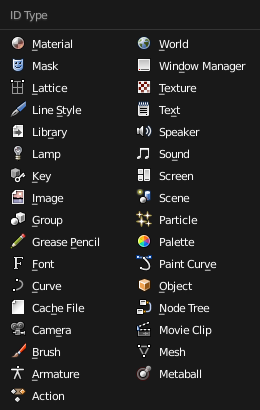
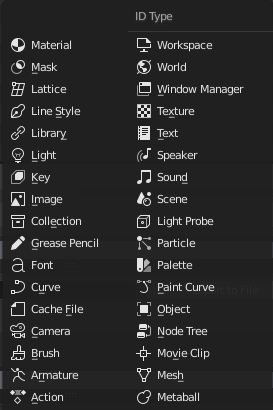
Partial update of Files & Data System section.
git-svn-id: https://svn.blender.org/svnroot/bf-manual/trunk@4916 c4de1f47-6596-e411-a384-0024e86c2797

diff --git a/blender_docs/manual/files/data_blocks.rst b/blender_docs/manual/files/data_blocks.rst
@@ -6,7 +6,7 @@ Data-Blocks
 ***********
 
 The base unit for any Blender project is the data-block. Examples of data-blocks include:
-meshes, objects, materials, textures, node trees, scenes, texts, brushes, and even screens.
+meshes, objects, materials, textures, node trees, scenes, texts, brushes, and even workspaces.
 
 .. figure:: /images/data-system_outliner_blender_file_view.png
    :align: right
@@ -174,158 +174,171 @@ For reference, here is a table of data-blocks types stored in blend-files.
      - Link
      - Pack
      - Description
-   * - Action
+   * - :doc:`Action </animation/actions>`
      - |tick|
      - |none|
      - | Stores animation F-Curves.
        | Used as data-block animation data,
        | and the Non-Linear-Editor.
-   * - Armature
+   * - :doc:`Armature </animation/armatures/introduction>`
      - |tick|
      - |none|
      - | Skeleton used to deform meshes.
-       | Used as object data & by the Armature Modifier.
-   * - Brush
+       | Used as data of armature objects, and by the Armature Modifier.
+   * - :doc:`Brush </sculpt_paint/brush/settings>`
      - |tick|
      - |none|
      - | Used by paint tools.
-   * - Camera
+   * - :doc:`Camera </render/cameras>`
      - |tick|
      - |none|
-     - | Used as object data.
-   * - Curve
+     - | Used as data by camera objects.
+   * - :doc:`Cache File </modeling/modifiers/modify/mesh_sequence_cache>`
      - |tick|
      - |none|
-     - | Used by camera, font & surface objects.
-   * - Font
+     - | Used by Mesh Cache modifiers.
+   * - :doc:`Curve </modeling/curves/introduction>`
+     - |tick|
+     - |none|
+     - | Used as data by curve, font & surface objects.
+   * - :doc:`Font </modeling/texts/introduction>`
      - |tick|
      - |tick|
      - | References font files.
-       | Used by Font object-data.
-   * - GreasePencil
+       | Used by curve object-data of text objects.
+   * - :doc:`Grease Pencil </grease_pencil/introduction>`
      - |tick|
      - |none|
-     - | 2D/3D sketch data.
+     - | 2D/3D sketch data used by grease pencil objects.
        | Used as overlay *helper* info, by the
        | 3D View, Image, Sequencer & Movie Clip editors.
-   * - Group
+   * - :doc:`Collection </scene_layout/collections/introduction>`
      - |tick|
      - |none|
-     - | Reference object's.
-       | Used by dupli-groups & often library linking.
-   * - Image
+     - | Group and organize objects in scenes.
+       | Used to instance objects, and in library linking.
+   * - :doc:`Image </editors/image/introduction>`
      - |tick|
      - |tick|
      - | Image files.
-       | Used by textures & shader nodes.
-   * - Lamp
-     - |tick|
-     - |none|
-     - | Used as object-data.
-   * - Lattice
-     - |cross|
-     - |none|
-     - | Grid based lattice deformation.
-       | Used as object data and by the Lattice Modifier.
-   * - Library
-     - |cross|
-     - |tick|
-     - | References to external blend-files.
-       | Access from the Outliner's blend-file view.
-   * - LineStyle
-     - |tick|
-     - |none|
-     - | Used by the FreeStyle renderer.
-   * - Mask
-     - |tick|
-     - |none|
-     - | 2D animated mask curves.
-       | Used by compositing nodes & sequencer strip.
-   * - Material
-     - |tick|
-     - |none|
-     - | Set shading and texturing render properties.
-       | Used by objects, meshes & curves.
-   * - Mesh
-     - |tick|
-     - |none|
-     - | Geometry vertices/edges/faces.
-       | Used as object-data.
-   * - MetaBall
-     - |tick|
-     - |none|
-     - | An isosurface in 3D space.
-       | Used as object-data.
-   * - MovieClip
-     - |tick|
-     - |cross|
-     - | Reference to an image sequence or video file.
-       | Used in the Movie Clip editor.
-   * - NodeGroup
-     - |tick|
-     - |none|
-     - | Collections of re-usable nodes.
-       | Used in the node editors.
-   * - Object
-     - |tick|
-     - |none|
-     - | An entity in the scene with location,
-       | scale, rotation.
-       | Used by scenes & groups.
-   * - Particle
-     - |tick|
-     - |none|
-     - | Particle settings.
-       | Used by particle systems.
-   * - Palette
-     - |tick|
-     - |none|
-     - | Store color presets.
-       | Access from the paint tools.
-   * - Scene
-     - |tick|
-     - |none|
-     - | Primary store of all data displayed and animated.
-       | Used as top-level storage for objects & animation.
-   * - Screen
-     - |cross|
-     - |none|
-     - | Screen layout.
-       | Used by each window, which has its own screen.
-   * - ShapeKeys
+       | Used by shader nodes and textures.
+   * - :doc:`Keys (Shape Keys) </animation/shape_keys/introduction>`
      - |cross|
      - |none|
      - | Geometry shape storage, which can be animated.
        | Used by mesh, curve, and lattice objects.
-   * - Sounds
+   * - :doc:`Light </render/lights>`
+     - |tick|
+     - |none|
+     - | Used as object data by light objects.
+   * - :doc:`Library </files/linked_libraries>`
+     - |cross|
+     - |tick|
+     - | References to an external blend-file.
+       | Access from the Outliner's *Blender File* view.
+   * - :doc:`Line Style </render/freestyle/introduction>`
+     - |tick|
+     - |none|
+     - | Used by the FreeStyle renderer.
+   * - :doc:`Lattice </animation/lattice>`
+     - |tick|
+     - |none|
+     - | Grid based lattice deformation.
+       | Used as data of lattice objects, and by the Lattice Modifier.
+   * - :doc:`Mask </movie_clip/masking/introduction>`
+     - |tick|
+     - |none|
+     - | 2D animated mask curves.
+       | Used by compositing nodes & sequencer strip.
+   * - :doc:`Material </render/materials/introduction>`
+     - |tick|
+     - |none|
+     - | Set shading and texturing render properties.
+       | Used by objects, meshes & curves.
+   * - :doc:`Metaball </modeling/metas/introduction>`
+     - |tick|
+     - |none|
+     - | An isosurface in 3D space.
+       | Used as data of metaball objects.
+   * - :doc:`Mesh </modeling/meshes/introduction>`
+     - |tick|
+     - |none|
+     - | Geometry made of vertices/edges/faces.
+       | Used as data of mesh objects.
+   * - :doc:`Movie Clip </editors/clip/introduction>`
+     - |tick|
+     - |cross|
+     - | Reference to an image sequence or video file.
+       | Used in the *Movie Clip* editor.
+   * - :doc:`Node Tree </render/shader_nodes/groups>`
+     - |tick|
+     - |none|
+     - | Groups of re-usable nodes.
+       | Used in the node editors.
+   * - :doc:`Object </scene_layout/object/introduction>`
+     - |tick|
+     - |none|
+     - | An entity in the scene with location,
+       | scale, rotation.
+       | Used by scenes & collections.
+   * - :doc:`Paint Curve </sculpt_paint/brush/stroke_curve>`
+     - |tick|
+     - |none|
+     - | Stores a paint or sculpt stroke.
+       | Access from the paint tools.
+   * - :doc:`Palette </sculpt_paint/index>`
+     - |tick|
+     - |none|
+     - | Store color presets.
+       | Access from the paint tools.
+   * - :doc:`Particle </physics/particles/introduction>`
+     - |tick|
+     - |none|
+     - | Particle settings.
+       | Used by particle systems.
+   * - :doc:`Light Probe </render/eevee/lightprobes/introduction>`
+     - |tick|
+     - |none|
+     - | Help achieve complex real-time lighting in Eevee.
+   * - :doc:`Scene </scene_layout/scene/introduction>`
+     - |tick|
+     - |none|
+     - | Primary store of all data displayed and animated.
+       | Used as top-level storage for objects & animation.
+   * - :doc:`Sounds </render/output/audio/speaker>`
      - |tick|
      - |tick|
-     - | References to sound files.
-       | Used by speaker objects.
-   * - Speaker
+     - | Reference to sound files.
+       | Used as data of speaker objects.
+   * - :doc:`Speaker </render/output/audio/speaker>`
      - |tick|
      - |none|
      - | Sound sources for a 3D scene.
-       | Used as object-data.
-   * - Text
+       | Used as data of speaker object.
+   * - :doc:`Text </editors/text_editor>`
      - |tick|
      - |cross|
      - | Text data.
        | Used by Python scripts and OSL shaders.
-   * - Texture
+   * - :doc:`Texture </render/materials/legacy_textures/introduction>`
      - |tick|
      - |none|
      - | 2D/3D textures.
-       | Used by materials, world and brushes.
-   * - World
-     - |tick|
-     - |none|
-     - | Used by scenes for render environment settings.
-   * - WindowManager
+       | Used by brushes and modifiers.
+   * - :doc:`Window Manager </interface/window_system/introduction>`
      - |cross|
      - |none|
-     - | The overarching manager for all of Blender's UI;
-         this includes screens, notification system, operators, and keymaps.
+     - | The overarching manager for all of Blender's UI.
+       | Includes workspaces, notification system, operators, and keymaps.
+   * - :doc:`World </render/cycles/world>`
+     - |tick|
+     - |none|
+     - | Define global render environment settings.
+   * - :doc:`Workspace </interface/window_system/workspaces>`
+     - |cross|
+     - |none|
+     - | UI layout.
+       | Used by each window, which has its own workspace.
 
 
 .. _files-data_blocks-custom-properties:
@@ -340,8 +353,8 @@ Custom Properties
 
    Custom Properties panel.
 
-Custom properties are a way to store your own metadata in Blender's data-blocks
-which can be used for rigging (where bones and objects can have custom properties driving other properties),
+Custom properties are a way to store your own data in Blender's data-blocks.
+It can be used for rigging (where bones and objects can have custom properties driving other properties),
 and Python scripts, where it's common to define new settings not available in Blender.
 
 Only certain data supports custom properties:
@@ -350,7 +363,7 @@ Only certain data supports custom properties:
 - Bones and Pose-Bones.
 - Sequence strips.
 
-To add a custom property, find the *Custom Properties* panel,
+To add a custom property, search for the *Custom Properties* panel,
 found at the bottom of most :doc:`Properties Editor </editors/properties_editor>` or Sidebar region, and hit *Add*.
 
 
@@ -372,11 +385,12 @@ Property Name
 Property Value
    This does two things: first it sets the current value of the custom property, and
    second, it defines the data type of the property.
-   For example, custom properties can either be of type: Integers, Floats, or Booleans.
+   Custom properties can be of the following types: Integers, Floats, Strings or Booleans.
    See the table below for a list of examples for each:
 
-   :Integers: 1, 2, 3, 4...
+   :Integers: 1, 2, 3, 4,
    :Floats: 3.141, 5.0, 6.125,
+   :Strings: any text,
    :Booleans: ``True``, ``False``
 
    .. note::
@@ -406,9 +420,6 @@ Use Soft Limits
       The minimum value for the soft limit.
    Soft Max
       The maximum value for the soft limit.
-Is Statically Overridable
-   Specifies if the property can be overridden via the Static Overrides system
-   (with an additional performance overhead).
 Tooltip
    Allows you to write a custom :doc:`Tooltip </getting_started/help>` for your property.
 
@@ -419,7 +430,7 @@ Python Access
 Custom properties can be accessed in a similar way to
 `dictionaries <https://docs.python.org/3/tutorial/datastructures.html#dictionaries>`__,
 with the constraints that keys can only be strings,
-and values can only be strings, numbers, arrays and nested properties.
+and values can only be strings, numbers, arrays of such, or nested properties.
 
 See the `API documentation
 <https://www.blender.org/api/blender_python_api_current/info_quickstart.html#custom-properties>`__
